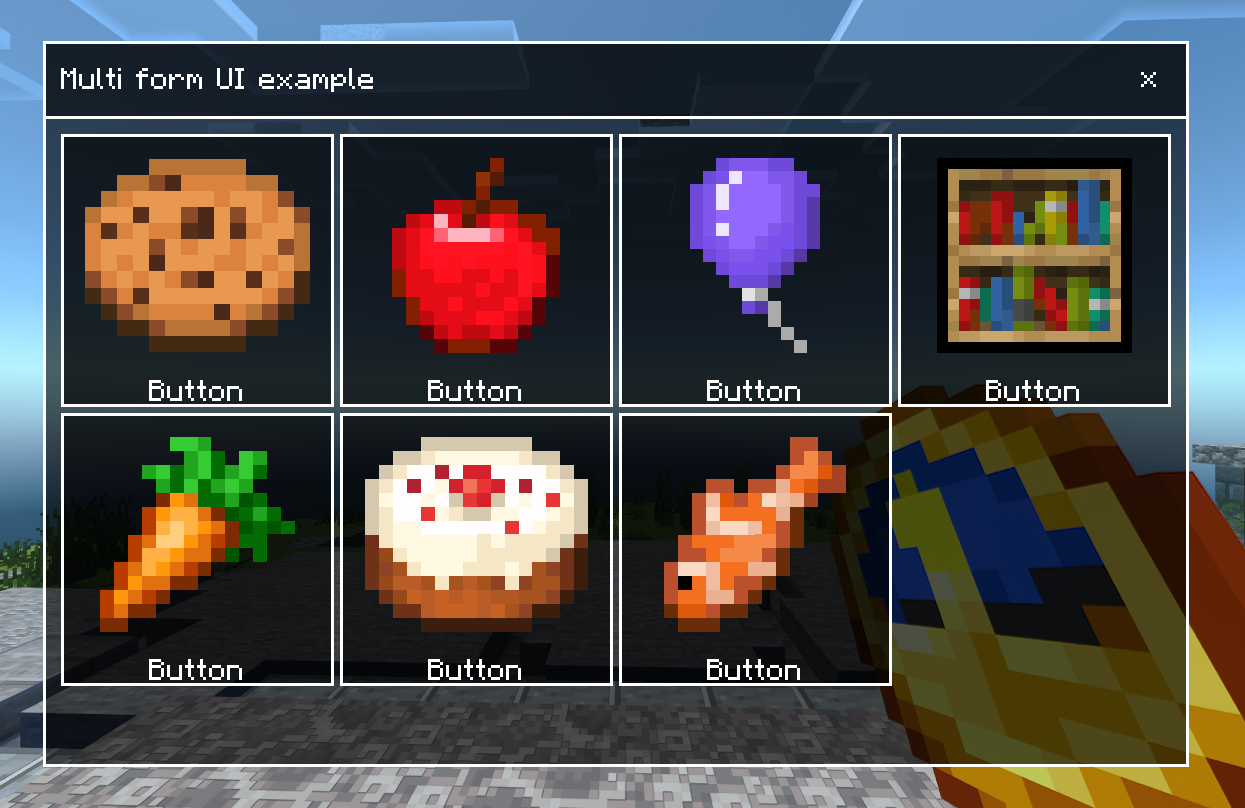
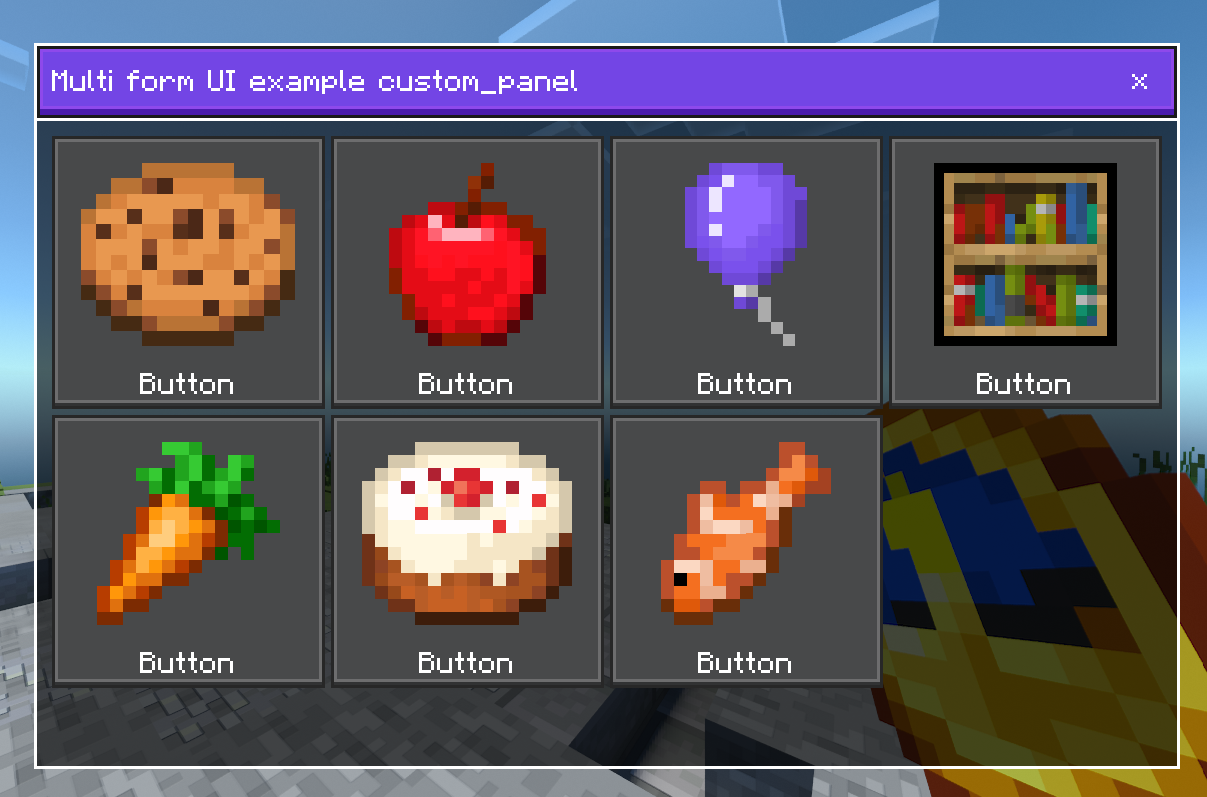
Update multi form example.

diff --git a/index.html b/index.html
@@ -209,8 +209,8 @@
                     <p class="text-content">Loading...</p>
                     <button class="copy-button">Copy</button>
                 </div>
-                <h3>And finally. Custom button</h3>
-                <p>I'll use the cubic_button template from StarLibV2 as a basis.</p>
+                <h3>And finally. Custom scrolling contents and button.</h3>
+                <p>I'll use the cubic_button template from StarLibV2 as a button for custom panel and horizontal_button template as button for default panel.</p>
                 <div class="text-container" data-file="docs/multiform_example/button.txt">
                     <h2>server_form.json</h2>
                     <p class="text-content">Loading...</p>
